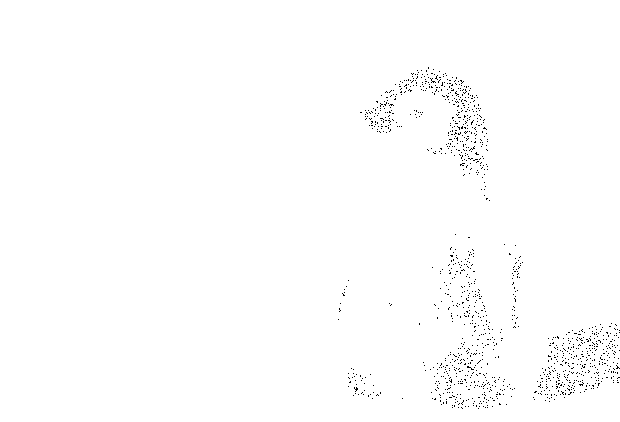
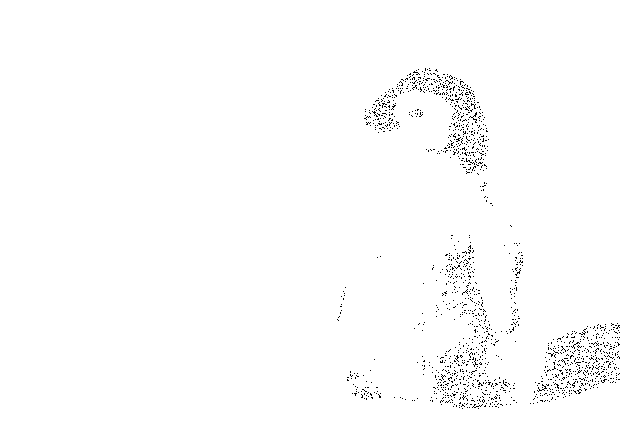
Add a map to check the points are not sampled more than once for importance sampling and edit README

diff --git a/dither.go b/dither.go
@@ -78,6 +78,7 @@ func (is ImportanceSampling) Apply(gray *image.Gray) *image.Gray {
 		bounds    = gray.Bounds()
 		dithered  = makeGray(bounds, 255)
 		histogram = make(map[uint8][]image.Point)
+		sampled   = make(map[image.Point]bool)
 	)
 	// Build histogram
 	for x := bounds.Min.X; x < bounds.Max.X; x++ {
@@ -95,10 +96,16 @@ func (is ImportanceSampling) Apply(gray *image.Gray) *image.Gray {
 		roulette[i] = roulette[i-1] + (255-i)*len(histogram[uint8(i)])
 	}
 	// Run the wheel
-	for i := 0; i < is.N; i++ {
+	var i int
+	for i < is.N {
 		var bin = uint8(binarySearchInt(is.RNG.Intn(roulette[is.Threshold]), roulette))
 		var point = histogram[bin][is.RNG.Intn(len(histogram[bin]))]
-		dithered.SetGray(point.X, point.Y, color.Gray{0})
+		// Add the point if it hasn't been already sampled
+		if !sampled[point] {
+			dithered.SetGray(point.X, point.Y, color.Gray{0})
+			sampled[point] = true
+			i++
+		}
 	}
 	return dithered
 }

diff --git a/README.md b/README.md
@@ -1,6 +1,10 @@
 # halfgone
 
-A collection of halftoning algorithms written in Go. These are not optimized for production where you would typically want to use bit shifting.
+This repository contains implementations of *digital halftoning* - also called *dithering* -  algorithms written in Go. The implementations are restricted to black and white rendering and are based on the `image` library from Go's standard library.
+
+The implementations are quite fast but are not optimized for production where one would typically want to use bit shifting when possible.
+
+If you are interested in digital halftoning, [this web page](http://www.efg2.com/Lab/Library/ImageProcessing/DHALF.TXT) is, in my opinion, a fantastic introduction.
 
 
 ## Original image
